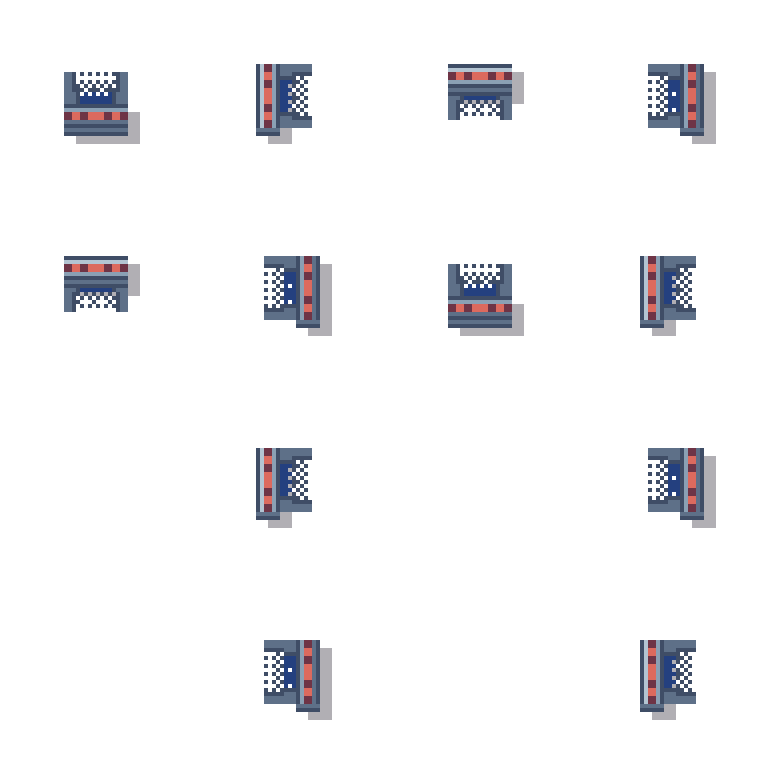
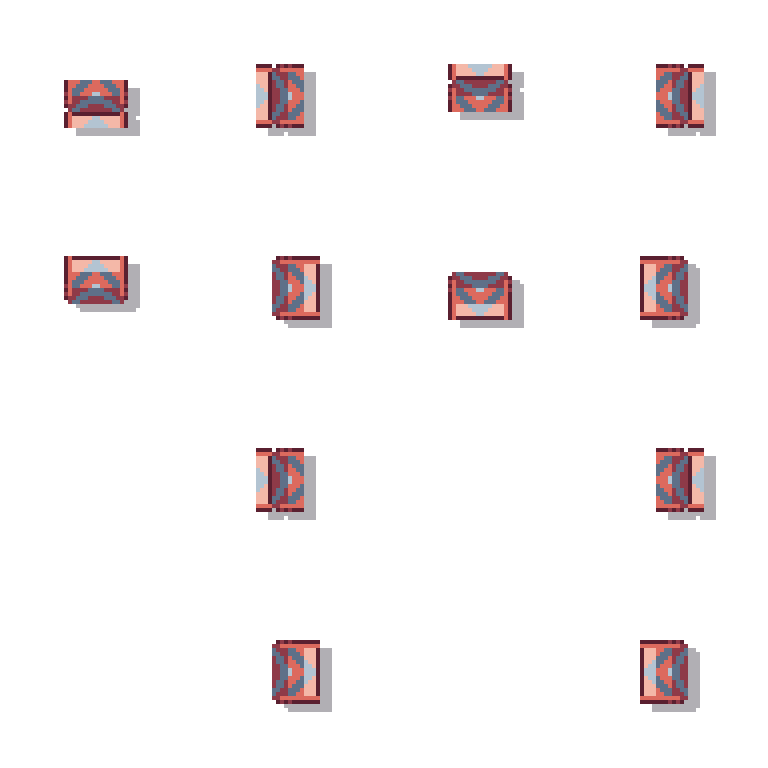
Pixel : souterrains redessinés d'après la capture de référence (toit et chevrons emboîtés)

diff --git a/pixel/pillow/belt_structures.py b/pixel/pillow/belt_structures.py
@@ -12,7 +12,7 @@ import math, os, sys
 from PIL import Image, ImageDraw
 
 sys.path.insert(0, os.path.dirname(os.path.abspath(__file__)))
-from palette import P, BELT
+from palette import P, BELT, hx
 from pixutil import autoshade
 import belt
 
@@ -76,52 +76,66 @@ def add_face(img, mask):
 
 
 # ---------------------------------------------------------------- souterrain
-BAYER = [[0, 8, 2, 10], [12, 4, 14, 6], [3, 11, 1, 9], [15, 7, 13, 5]]
-HOOD = 6          # profondeur du linteau (px)
-RAMP = 8          # longueur de la rampe (px)
+# Dessin relevé pixel par pixel sur la capture de référence (16 px de large, 13 de haut) : entrée d'un souterrain
+# dont le flux monte. Le toit (tan, petit chevron clair) est du côté enterré ; devant, la rampe porte des chevrons
+# emboîtés (acier, orange, rouge) dans un cadre orange à contour prune.
+# m contour, o cadre / remplissage, r remplissage foncé, t toit, l clair, s acier, w reflet, . transparent
+_GRID = [
+    "ldmommmmmmmmmmmmomgg",
+    "lsmotttttlltttttomGG",
+    "lsmottttllllttttomGG",
+    "lsmotttlllllltttomGG",
+    "lsmooosssoosssooomGG",
+    "lsmoosssoooosssoomGG",
+    "ssmosssoooooosssomGG",
+    "lsrossooollooossorGG",
+    "lsmorrrrssssrrrromGG",
+    "lsrorrssssssssrrorGG",
+    "lsmrrsssrrrrsssrrmGG",
+    "lsGrssrrrrrrrrssrGGG",
+]
+ENTRANCE = [row[2:18] for row in _GRID]       # 12 rangées x 16 colonnes
+ROOF_ROWS = 4                                  # rangées du toit (contour compris)
+UG_LEN = len(ENTRANCE)
 
 
-def tile_coords(direction, x, y):
-    """(s, lat) d'un pixel (x, y) de la case : s avance dans le sens du flux (0 à 16), lat va en travers (-8 à 8)."""
-    px, py = x + 0.5, y + 0.5
-    return {"E": (px, py - 8), "W": (belt.T - px, py - 8), "N": (belt.T - py, px - 8), "S": (py, px - 8)}[direction]
+def ug_colors(tier):
+    """Teintes de la capture par niveau : cadre, remplissage foncé, toit, contour (acier inchangé)."""
+    base = {"m": P["maroon"], "o": P["orange"], "r": P["red"], "t": P["tan"], "l": P["steel_light"], "s": P["steel"],
+            "w": P["white"]}
+    if tier == "red":
+        base.update(m=hx("5a2030"), o=BELT["red"][0], r=BELT["red"][1], t=hx("f4b8a8"))
+    elif tier == "blue":
+        base.update(m=P["blue_out"], o=BELT["blue"][0], r=BELT["blue"][1], t=hx("c4e8f8"))
+    return base
+
+
+def ug_art(entering, tier):
+    """Dessin 16 x 12 pour un flux qui monte : toit en haut si on entre, en bas si on sort. Les chevrons montent toujours."""
+    col = ug_colors(tier)
+    rows = ENTRANCE if entering else ENTRANCE[ROOF_ROWS:] + ENTRANCE[:ROOF_ROWS]
+    img = Image.new("RGBA", (16, UG_LEN), (0, 0, 0, 0))
+    for y, row in enumerate(rows):
+        for x, ch in enumerate(row):
+            if ch in col:
+                img.putpixel((x, y), col[ch])
+    return img
 
 
 def underground_cell(direction, entering, tier):
-    """Cellule de 48 x 48 px d'art ; la case occupe [16, 32[. `d` = distance au bord enterré (0 = au bord)."""
-    fx, fy = FLOW[direction]
-    out_dir = (fx, fy) if entering else (-fx, -fy)           # direction du bord enterré
-    hood = Image.new("L", (48, 48), 0)
+    """Cellule de 48 x 48 px d'art ; la case occupe [16, 32[. Le dessin (16 x 12) est collé du côté enterré."""
+    art = ug_art(entering, tier)
+    # on tourne le dessin (flux vers le nord) vers la direction voulue
+    art = {"N": art, "E": art.rotate(-90, expand=True), "S": art.rotate(180), "W": art.rotate(90, expand=True)}[direction]
     img = Image.new("RGBA", (48, 48), (0, 0, 0, 0))
-    light, dark = BELT[tier]
-    for ty in range(belt.T):
-        for tx in range(belt.T):
-            s, lat = tile_coords(direction, tx, ty)
-            d = (belt.T - s) if entering else s
-            x, y = tx + 16, ty + 16
-            if d < HOOD:
-                hood.putpixel((x, y), 255)
-                if d < 2:
-                    c = belt.shade(d, out_dir)               # bord du linteau : contour puis lumière ou ombre
-                elif d < HOOD - 2:
-                    c = light if (abs(lat) % 4) < 2 else belt.BASE[tier]     # bandeau de la couleur du niveau
-                elif d < HOOD - 1:
-                    c = P["steel_mid"]
-                else:
-                    c = P["steel_dark"]
-                img.putpixel((x, y), c)
-            elif d < HOOD + RAMP:
-                # rampe : la tranchée se rétrécit vers le linteau (murs en acier) et s'assombrit (trame de plus en
-                # plus dense) ; le tapis animé reste visible entre les murs
-                t = 1 - (d - HOOD) / RAMP
-                wall = 5.5 - 1.5 * t
-                if abs(lat) > wall:
-                    img.putpixel((x, y), P["steel_dark"] if abs(lat) - wall < 1 else P["steel"])
-                elif BAYER[y % 4][x % 4] / 16 < 0.15 + 0.8 * t:
-                    img.putpixel((x, y), P["steel_dark"] if t < 0.6 else P["blue_out"])
-    # hauteur du linteau : face avant sur les 2 px sous son bord sud
-    add_face(img, hood)
-    return with_shadow(img, hood)
+    w, h = art.size
+    fx, fy = FLOW[direction]
+    end = (fx, fy) if entering else (-fx, -fy)       # côté du bord enterré
+    x0 = 16 + (belt.T - w if end[0] > 0 else 0)
+    y0 = 16 + (belt.T - h if end[1] > 0 else 0)
+    img.alpha_composite(art, (x0, y0))
+    mask = img.getchannel("A").point(lambda v: 255 if v else 0)
+    return with_shadow(img, mask)
 
 
 def underground_sheet(tier):
@@ -229,18 +243,32 @@ def splitter_sheet(direction, tier):
 if __name__ == "__main__":
     o = sys.argv[1] if len(sys.argv) > 1 else "out"
     os.makedirs(o, exist_ok=True)
-    # souterrains : ligne droite vers l'est (tapis animé dessous), entrée puis sortie, pour juger du raccord
+    # souterrains posés sur des convoyeurs animés : lignes vers l'est, le nord, l'ouest et le sud (entrée puis sortie)
     rows = []
     for tier in ("yellow", "red", "blue"):
-        line = Image.new("RGBA", (16 * 7, 16 * 3), P["grass"])
-        for i in range(7):
-            line.alpha_composite(belt.piece(0, 5, tier), (i * 16, 16))
-        line.alpha_composite(underground_cell("E", True, tier), (2 * 16 - 16, 0))
-        line.alpha_composite(underground_cell("E", False, tier), (4 * 16 - 16, 0))
-        rows.append(line.resize((line.width * 5, line.height * 5), Image.NEAREST))
-    c = Image.new("RGBA", (rows[0].width, rows[0].height * 3))
-    for i, r in enumerate(rows):
-        c.paste(r, (0, i * r.height))
+        parts = []
+        for direction, brow in (("E", 0), ("N", 2), ("W", 1), ("S", 3)):
+            n = 7
+            horiz = direction in "EW"
+            line = Image.new("RGBA", (16 * n, 16 * 3) if horiz else (16 * 3, 16 * n), P["grass"])
+            for i in range(n):
+                line.alpha_composite(belt.piece(brow, 5, tier), (i * 16, 16) if horiz else (16, i * 16))
+            fx, fy = FLOW[direction]
+            ent, ext = (2, 4) if (fx > 0 or fy > 0) else (4, 2)          # case d'entrée / de sortie sur la ligne
+            for idx, entering in ((ent, True), (ext, False)):
+                cell = underground_cell(direction, entering, tier)
+                line.alpha_composite(cell, (idx * 16 - 16, 0) if horiz else (0, idx * 16 - 16))
+            parts.append(line.resize((line.width * 4, line.height * 4), Image.NEAREST))
+        wtot = sum(p.width for p in parts) + 20 * len(parts)
+        row = Image.new("RGBA", (wtot, max(p.height for p in parts)), P["grass"])
+        x = 0
+        for p in parts:
+            row.paste(p, (x, 0)); x += p.width + 20
+        rows.append(row)
+    c = Image.new("RGBA", (max(r.width for r in rows), sum(r.height for r in rows)), P["grass"])
+    y = 0
+    for r in rows:
+        c.paste(r, (0, y)); y += r.height
     c.save(f"{o}/ug_all.png")
     # répartiteurs : 4 orientations, 3 niveaux
     prev = Image.new("RGBA", (4 * 150, 3 * 125), P["grass"])

diff --git a/pixel/STYLE.md b/pixel/STYLE.md
@@ -28,5 +28,5 @@ Référence pour tout sprite du mod pixel. Les couleurs vivent dans `pillow/pale
 - Voyant du moteur qui clignote : indique visuellement que la machine travaille. **[PROVISOIRE]**
 
 ## Structures de convoyeurs
-- Souterrain : le tapis s'enfonce dans une rampe qui se rétrécit et s'assombrit (trame de damier, laisse voir le tapis animé du jeu), puis passe sous un linteau en acier avec un bandeau de la couleur du niveau. **[VALIDÉ par Bastien comme direction, à juger en jeu]**
+- Souterrain : capot de 16 x 12 px relevé sur la capture de référence de Bastien : toit tan avec un petit chevron clair du côté enterré, rampe de chevrons emboîtés (acier, orange, rouge) dans un cadre orange à contour prune. Orienté selon le flux, recoloré par niveau (rouge et bleu pour rapide et express) ; en sortie, la rampe est du côté de la case voisine. **[VALIDÉ comme direction, à juger en jeu]**
 - Répartiteur : poteaux d'extrémité, cloison avec nez diviseur côté entrée, rail à trois engrenages (acier, moyeu orange) qui tournent, capots à chevrons de la couleur du niveau côté sortie, deux voyants qui clignotent en alternance. **[PROVISOIRE]**
